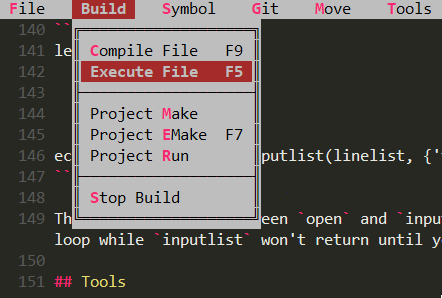
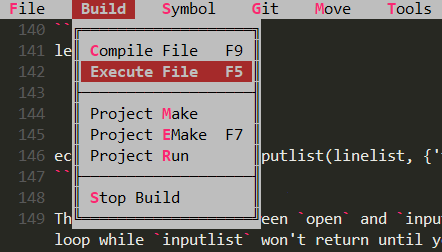
borders and color schemes

diff --git a/README.md b/README.md
@@ -164,6 +164,76 @@ or
 
 Then `hjkl` to navigate, `enter`/`space` to switch buffer and `ESC`/`CTRL+[` to quit.
 
+## Customize
+
+### How to change border style ?
+
+Change border characters.
+
+
+    let g:quickui_border_style = 1   (default)
+
+![](images/border1.png)
+
+
+    let g:quickui_border_style = 2
+
+![](images/border2.png)
+
+    let g:quickui_border_style = 3
+
+![](images/border3.png)
+
+### How to change color scheme ?
+
+There are 4 builtini color themes below:
+
+    let g:quickui_color_theme = 'borland'
+
+Set to `"borland"` will use the default color theme.
+
+    let g:quickui_color_theme = 'gruvbox'
+
+![](images/color1.png)
+
+    let g:quickui_color_theme = 'solarized'
+
+![](images/color2.png)
+
+    let g:quickui_color_theme = 'papercol'  
+    set background=dark
+
+![](images/color3.png)
+
+    let g:quickui_color_theme = 'papercol'  
+    set background=light
+
+![](images/color4.png)
+
+### Specify color group precisely
+
+If none of the builtin color schemes satisfy your need, you can define the color groups your self in your `.vimrc` before enter vim (`VimEnter` event).
+
+| Group | Meaning |
+|-|-|
+| QuickBG | Background color |
+| QuickSel | Selector (or cursor) color |
+| QuickKey | Hotkey (or shortcut-key) color |
+| QuickOff | Disabled item color |
+| QuickHelp | Tip text color |
+
+Default color `"borland"` is defined as:
+
+```VimL
+hi! QuickBG ctermfg=0 ctermbg=7 guifg=black guibg=gray
+hi! QuickSel cterm=bold ctermfg=0 ctermbg=2 gui=bold guibg=brown guifg=gray
+hi! QuickKey term=bold ctermfg=9 gui=bold guifg=#f92772
+hi! QuickOff ctermfg=59 guifg=#75715e
+hi! QuickHelp ctermfg=247 guifg=#959173
+```
+
+
+
 ## Self-promotion
 
 like vim-quickui? Follow the repository on [GitHub](https://github.com/skywind3000/vim-quickui) and vote for it on [vim.org](https://www.vim.org/scripts/script.php?script_id=5845). And if you're feeling especially charitable, follow skywind3000 on [Twitter](https://twitter.com/skywind3000) and [GitHub](https://github.com/skywind3000).
